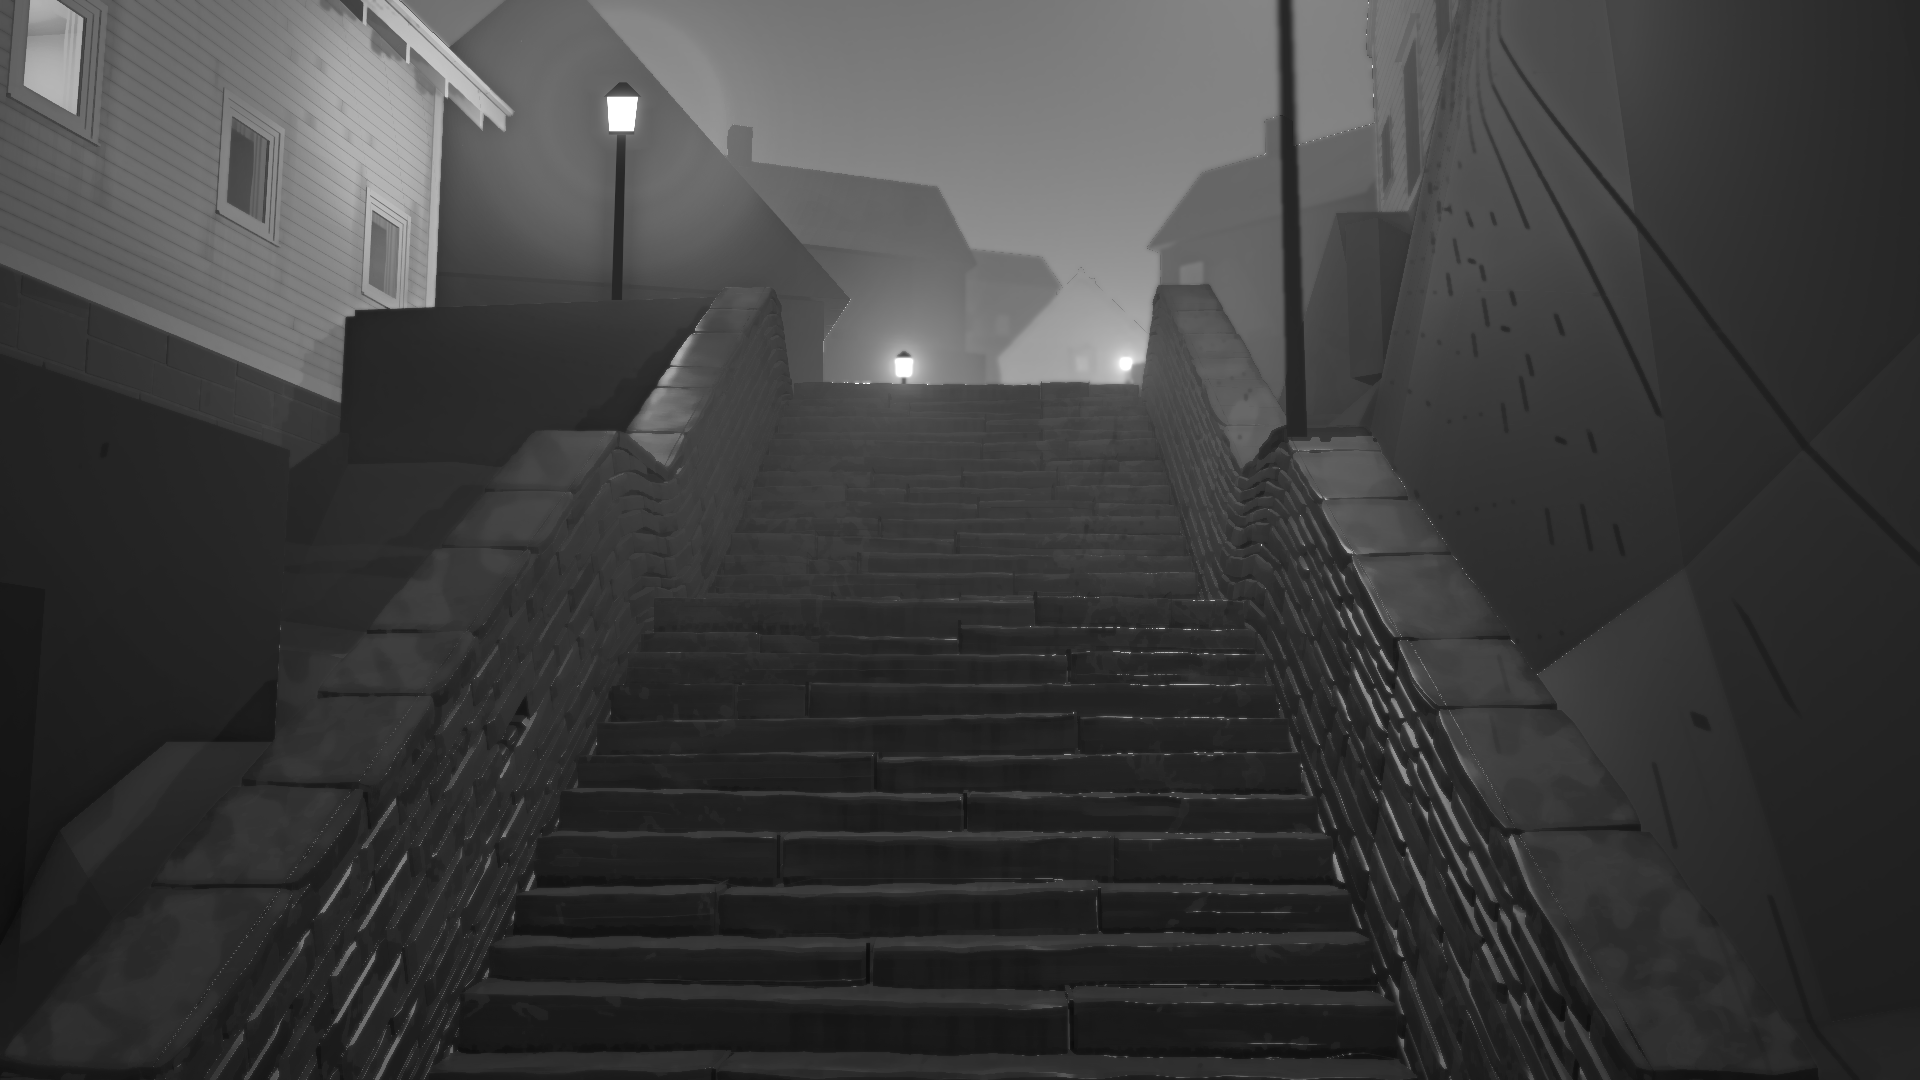
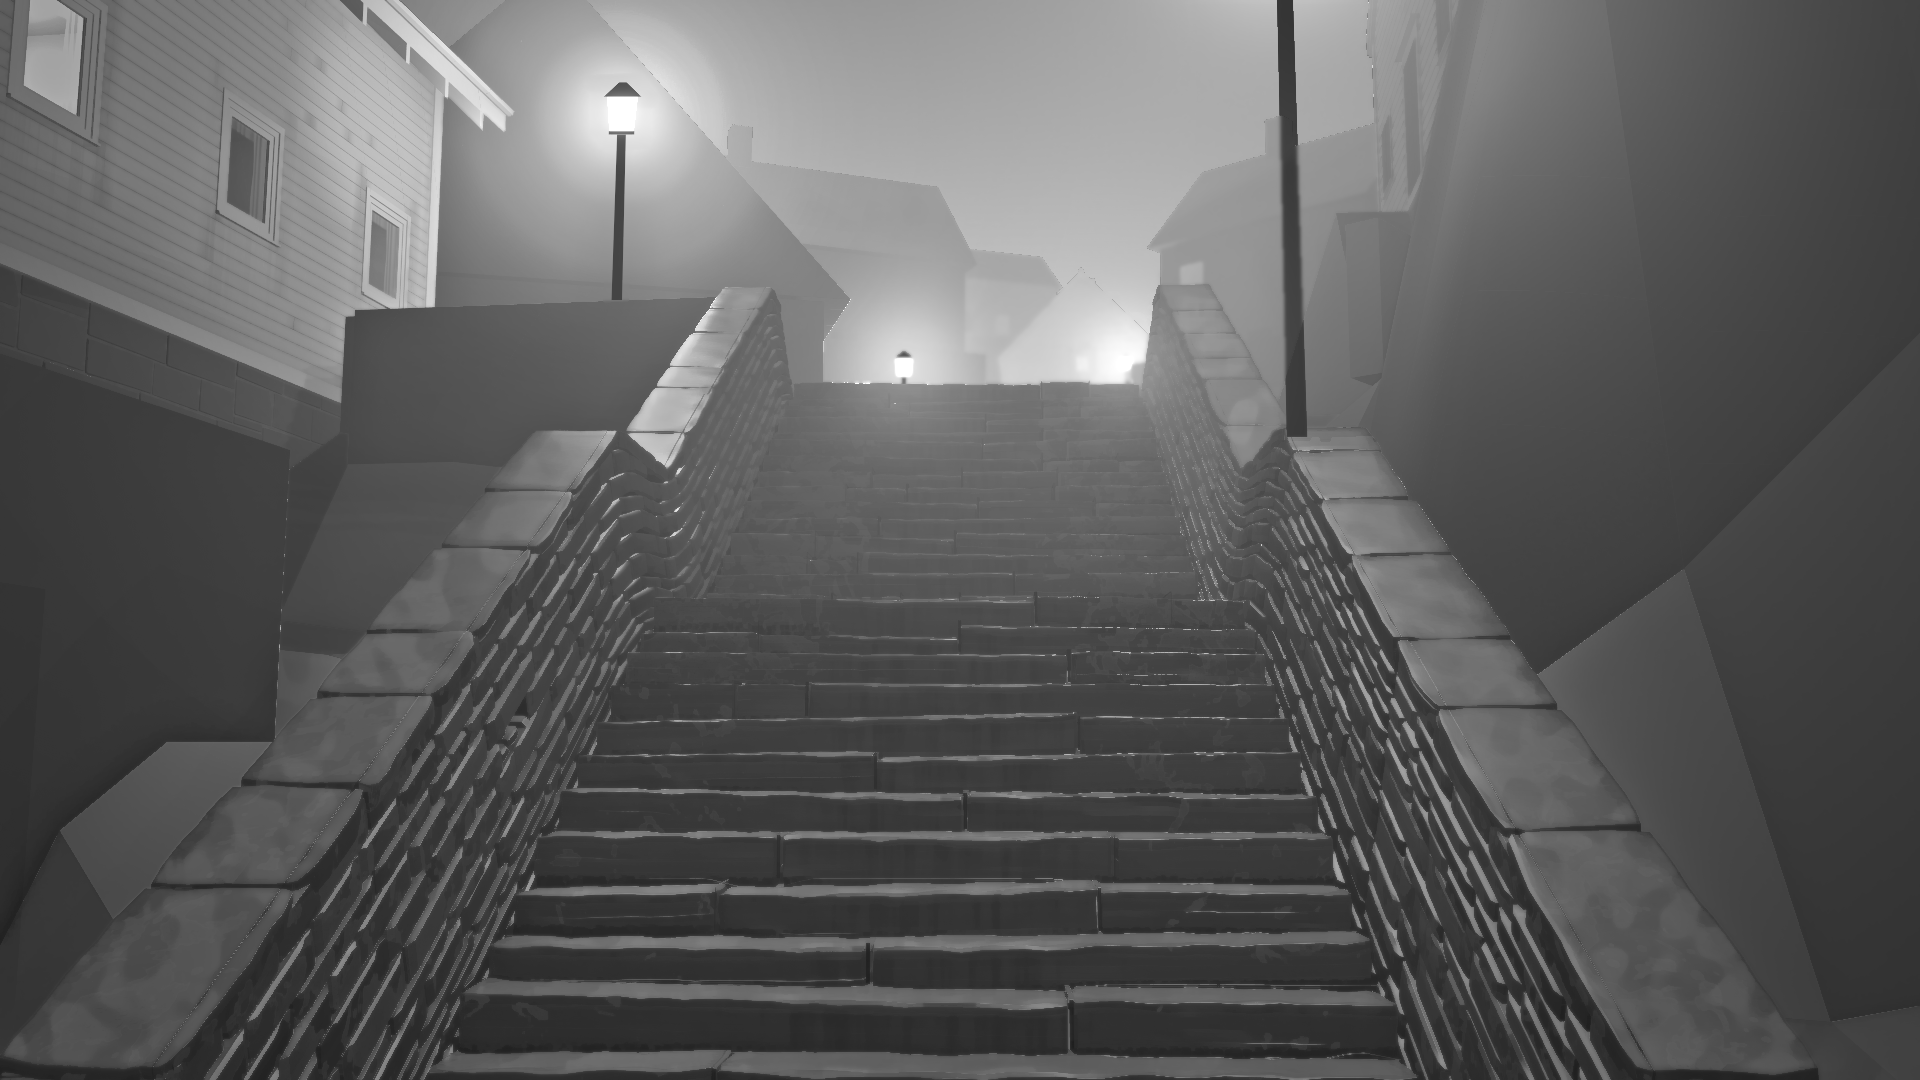
LT1: art direction: round-1 notes (the Landing leads, lanterns stand in daylight, angle-to-sky planes, wet treads), the page and the 1/8 thumbnails of all four views

diff --git a/tools/style_frame.py b/tools/style_frame.py
@@ -217,7 +217,7 @@ def add_lamps(img, P, n, dist, sky, cls, rays, cam, lamps, kinds, air, w, h, wet
     pos, basis = cam
     pool = np.zeros(img.shape[:2], np.float32)
     for lamp in lamps:
-        kind = kinds[lamp["kind"]]
+        kind = lamp.get("_kind") or kinds[lamp["kind"]]
         colour = hexlin(kind["srgb"])
         head = np.array(lamp["head"], np.float32)
         L = head[None, None, :] - P
@@ -262,14 +262,15 @@ def wet_sheen(img, wet, ps, rays):
     return img * dark[..., None] + (up * f)[..., None] * sheen[None, None, :]
 
 
-def draw_lamps(img, P, dist, cls, cam, lamps, kinds, air, w, h):
-    """The lamps themselves, after the value plan: a light that means people keeps its own value."""
+def draw_lamps(img, P, dist, cls, cam, lamps, kinds, air, w, h, lit):
+    """The lamps themselves, after the value plan: a light that means people keeps its own value. A lamp stands
+    in every light; it glows only when the moment lights it."""
     for lamp in lamps:
-        kind = kinds[lamp["kind"]]
+        kind = lamp.get("_kind") or kinds[lamp["kind"]]
         head = np.array(lamp["head"], np.float32)
-        if lamp.get("add", False):
+        if lit:
             img = glow(img, head, kind, hexlin(kind["srgb"]), dist, cam, air, w, h)
-        img = draw_lantern(img, lamp, kind, dist, cam, w, h, P, cls)
+        img = draw_lantern(img, lamp, kind, dist, cam, w, h, P, cls, lit)
     return img
 
 
@@ -304,7 +305,8 @@ def mirror(img, wet, ps, P, rays, cam, w, h):
         found |= take
         t *= 1.16
     # a ray that leaves the picture upwards finds the sky beyond the frame: the sky's colour at the picture's top
-    away = ~found & (r[:, 2] > 0.05)
+    px_end, _, z_end = project(p0 + r * t, pos, basis, w, h)
+    away = ~found & (r[:, 2] > 0.05) & ((px_end[:, 1] < 0) | (z_end <= 0))
     top = ps["sky"][: h // 6]
     if top.any() and away.any():
         got[away] = img[: h // 6][top].mean(0)
@@ -349,23 +351,26 @@ def surface_albedo(img):
 def shadow(P, head, dist, cam, w, h, steps):
     """1 where the lamp sees the point, 0 where something on screen stands between (screen-space, as games do)."""
     pos, basis = cam
-    vis = np.ones(dist.shape, np.float32)
+    hits = np.zeros(dist.shape, np.float32)
     flat = P.reshape(-1, 3)
     # the march stops short of the head itself, so a lamp the render draws does not shade its own light
-    reach = 1 - 0.6 / np.maximum(np.linalg.norm(head[None, :] - flat, axis=-1, keepdims=True), 0.7)
+    # and starts clear of the surface it leaves, so a face lit at a grazing angle does not shade itself
+    span = np.maximum(np.linalg.norm(head[None, :] - flat, axis=-1, keepdims=True), 0.7)
+    reach, start = 1 - 0.6 / span, np.minimum(0.6 / span, 0.4)
     for k in range(1, steps):
-        t = k / steps * reach
+        t = start + (reach - start) * k / steps
         q = flat * (1 - t) + head[None, :] * t
         px, qd, z = project(q, pos, basis, w, h)
         ix = np.clip(px[:, 0].astype(np.int32), 0, w - 1)
         iy = np.clip(px[:, 1].astype(np.int32), 0, h - 1)
         scene = dist[iy, ix]
         blocked = (scene < qd - 0.35) & (scene > qd - 6.0) & (z > 0.1)
-        vis = np.minimum(vis, np.where(blocked, 0.0, 1.0).reshape(dist.shape))
-    return blur(vis, 1.5)
+        hits = hits + blocked.reshape(dist.shape)
+    # a shadow needs a few blocked samples: one alone is the march's aliasing, not a thing in the way
+    return blur(1 - np.clip((hits - 1) / 2.0, 0, 1), 1.5)
 
 
-def draw_lantern(img, lamp, kind, dist, cam, w, h, P=None, cls=None):
+def draw_lantern(img, lamp, kind, dist, cam, w, h, P=None, cls=None, lit=True):
     """The lamp as its kind draws it (the kind's parts, in metres: a post, a glass lantern, a cap), hidden by
     whatever stands in front. A lamp the render already stands as a clay box is painted out first, from its own
     place, so the frame shows the lantern the lamps element will make, not the box."""
@@ -389,7 +394,7 @@ def draw_lantern(img, lamp, kind, dist, cam, w, h, P=None, cls=None):
     ppm = h / (2 * float(hd[0]) * basis[3])  # pixels per metre at the lamp
     yy, xx = np.mgrid[0:h, 0:w].astype(np.float32)
     post = lin(np.array(kind["post_srgb"], np.float32) / 255.0)
-    glass = hexlin(kind["srgb"]) * kind["head_white"]
+    glass = hexlin(kind["srgb"]) * kind["head_white"] if lit else hexlin(kind["glass_unlit_srgb"])
 
     def part(z0, z1, half0, half1, colour):
         nonlocal out
@@ -424,7 +429,7 @@ def glow(img, head, kind, colour, dist, cam, air, w, h):
     px_m = h / (2 * hd * basis[3])
     halo = np.zeros((h, w), np.float32)
     for size, share in kind["halo"]:
-        s = size * px_m * (1 + fog * hd / 40.0)
+        s = size * kind.get("halo_size", 1.0) * px_m * (1 + fog * hd / 40.0)
         halo += share * np.exp(-(rr / max(s, 1.0)) ** 2)
     front = smoothstep(hd - 2.0, hd + 1.0, dist)
     behind = 0.35 + 0.65 * front
@@ -455,6 +460,7 @@ def local_value(plan, ps):
     off += np.where(house & np.isin(ps["kind"], (0, 2, 3, 12)), lv.get("paint", 0.0), 0.0)
     off += np.where(house & (ps["kind"] == 5), lv.get("roof", 0.0), 0.0)
     off += np.where(ps["cls"] == 3, lv.get("stone", 0.0), 0.0)
+    off += np.where((ps["cls"] == 3) & up, lv.get("tread", 0.0), 0.0)
     off += np.where((ps["cls"] == 1) & up, lv.get("ground", 0.0), 0.0)
     off += np.where((ps["cls"] == 1) & ~up, lv.get("clay", 0.0), 0.0)
     return blur(off, 1.0)
@@ -513,6 +519,7 @@ def value_plan(img, plan, dist, sky, pool, focus_w, lit, local, glow_l, ps):
         c, d = m["to"]
         t = np.clip((L - a) / max(b - a, 1e-3), 0, 1)
         tl = tl + (c + (d - c) * t - tl) * m.get("share", 1.0) * m["mask"]
+        tl = tl + m.get("sky_lift", 0.0) * np.clip(ps["normal"][..., 2], 0, 1) * m["mask"]
     # the veil: away from the focus the middle distance leans to the air's value, so the found edges are the focus's
     veil = plan.get("veil")
     if veil:
@@ -524,9 +531,10 @@ def value_plan(img, plan, dist, sky, pool, focus_w, lit, local, glow_l, ps):
     lift = plan.get("pool_lift", 0.0)
     held = sum((m["mask"] for m in ps.get("masses", [])), np.zeros_like(L))
     tl = tl * (1 - pool) + (np.maximum(tl, L * (1 - held) + tl * held) + lift) * pool
-    tl = np.where(lit, np.maximum(tl, L), tl)
+    tl = np.where(lit, np.minimum(np.maximum(tl, L), plan.get("lit_max", 100.0)), tl)
     # the wet's shine is a signal (the treads' lines leading up), kept with the focus and the pools
     calm = plan["calm"] + (1 - plan["calm"]) * np.maximum(np.maximum(focus_w, pool), ps.get("shine", 0) * plan.get("shine_keep", 0.0))
+    calm = calm + (plan.get("focus_detail", 1.0) - 1.0) * focus_w
     ly2 = np.log(np.maximum(from_lstar(tl), 1e-5)) + detail * calm
     gain = np.exp(ly2) / y
     return img * gain[..., None]
@@ -589,7 +597,9 @@ def edges_and_marks(img, dist, sky, focus_w, pool, em):
     want = np.where(sky, em.get("sky_px", 0.0), want)
     out = by_radius(img, want, em["radii"], kuwahara)
     soft = em["lost_px"] * np.maximum(far * (1 - focus_w), dark * em["dark_share"] * (1 - focus_w))
-    return by_radius(out, soft, [1.0, 2.5, 5.0], lambda a, r: np.stack([blur(a[..., k], r) for k in range(3)], -1))
+    # the sky as a few soft shapes: a painter's sky, not the render's every wisp
+    soft = np.where(sky, em.get("sky_soft_px", 0.0), soft)
+    return by_radius(out, soft, [1.0, 2.5, 5.0, 12.0], lambda a, r: blur_rgb(a, r))
 
 
 def lens(img, ln, h, w):
@@ -654,10 +664,13 @@ def main():
     rf = np.sqrt(((xx - fx) / w) ** 2 + ((yy - fy) / h) ** 2)
     focus_w = np.exp(-(rf / view["focus_radius"]) ** 2).astype(np.float32)
     ps["lit"] = lit_panes(img, ps, frame.get("lit_from", 0.08))
-    lamps = [l for l in recipe["lamps"] if frame.get("lamps_on", False)]
-    img, pool = add_lamps(img, P, ps["normal"], ps["dist"], ps["sky"], ps["cls"], rays, cam, lamps,
+    # each lamp's kind with this moment's art over it (a painter's subordination of one lamp to another)
+    lamps = [{**l, "_kind": {**recipe["lamp_kinds"][l["kind"]], **frame.get("lamp_art", {}).get(l["id"], {})}}
+             for l in recipe["lamps"]]
+    lit_on = frame.get("lamps_on", False)
+    img, pool = add_lamps(img, P, ps["normal"], ps["dist"], ps["sky"], ps["cls"], rays, cam, lamps if lit_on else [],
                           recipe["lamp_kinds"], frame.get("air", {}), w, h, frame.get("wet")) \
-        if lamps else (img, np.zeros((h, w), np.float32))
+        if lit_on else (img, np.zeros((h, w), np.float32))
     ps["masses"] = masses(frame["values"], P, ps)
     for m in ps["masses"]:
         pool = pool * (1 - (1 - m.get("pool", 1.0)) * m["mask"])
@@ -667,7 +680,7 @@ def main():
     glow_l = air_glow(frame["values"], ps, rays)
     img = value_plan(img, frame["values"], ps["dist"], ps["sky"], pool, focus_w, ps["lit"],
                      local_value(frame["values"], ps), glow_l, ps)
-    img = draw_lamps(img, P, ps["dist"], ps["cls"], cam, lamps, recipe["lamp_kinds"], frame.get("air", {}), w, h)
+    img = draw_lamps(img, P, ps["dist"], ps["cls"], cam, lamps, recipe["lamp_kinds"], frame.get("air", {}), w, h, lit_on)
     out = a.out or os.path.join(AD, "frames", f"{a.view}-{a.moment}")
     os.makedirs(os.path.dirname(out), exist_ok=True)
     if a.values_only:

diff --git a/reviews/lt1/art-direction/README.md b/reviews/lt1/art-direction/README.md
@@ -1,0 +1,43 @@
+# The walked corner: art direction
+
+Øystein, 27 October: "I want you to have more of a designers eye. Make our style and art truly outstanding." This page sets how the corner's four judged views are designed in each light; the frames in `frames/` show it, and every later element is judged against them. The masters it draws on are in [masters.md](masters.md).
+
+**In short**
+- **One picture, three parts.** Every view is a dark near curtain (retaining walls, the rock knuckle, the wet ground), a lit middle where the focus is (the Landing and C's corner), and a glimpse beyond (the gully's top in its own air). Nothing in the curtain is lighter than the middle.
+- **One key, one accent.** Each light has one key colour in every shade and one accent, placed at the focus: the lanterns' gold in blue hour, C's oxide-red door in drizzle, the sun's gold on C's front in low sun.
+- **Value before colour.** Each frame is a value study at 1/8 first (`-eighth.png`, five values in `-values.png`); colour comes only after the values read.
+- **Found at the focus, lost elsewhere.** Crisp edges and full detail only at the focus and where a lit plane meets the sky; creases inside a dark mass are lost; past 50 m only shapes and lights remain.
+- **Facts stand.** The three gully lanterns are drawn at their planned places (every 24 m, the lowest on the cheek wall; the layout drops them today); the Landing's 1955 lantern replaces its clay stand-in; no person is drawn. Reopens if a frame needs a house, step, lamp or person the facts lack: then the facts change first, in the engine.
+
+## The views
+
+| View | Focus and eye travel | Value plan (blue hour, 1/8) |
+| --- | --- | --- |
+| **Street camera** (`street`) | The Landing lantern by C's warm-lit corner. In by the wet steps' ladder of light, up to the Landing, out to the lit fog at the gully's top; the nearest lantern holds the right edge. | ![](frames/street-1750-sea-fog-eighth.png) |
+| **Foot of the steps** (`eye-foot`) | The Landing lantern and C's lit corner above the flight; the treads' wet noses lead straight up to it, the two far lanterns and the fog beyond. | ![](frames/eye-foot-1750-sea-fog-eighth.png) |
+| **A house front at eye level** (`c-east`) | C's east wall in the Landing lantern's light: the boards, the windows and the paint's age at full truth, the lantern's post the one dark vertical. | ![](frames/c-east-1750-sea-fog-eighth.png) |
+| **12 m** (`into12`) | The Landing seen from above: C's lit plinth corner, the lantern, the flight turning up the gully; the knuckle a dark wedge at the right. | ![](frames/into12-1750-sea-fog-eighth.png) |
+
+**Colour script.** The same for every view; what changes is where the focus falls.
+
+| Light | Key (every shade) | The one accent | Warmest | Darkest |
+| --- | --- | --- | --- | --- |
+| **Blue hour in sea fog** (17:50) | Blue-violet of the fogged sky; white walls pale blue-violet, still the lightest built mass | The lanterns' gold; the one white is the nearest lantern's glass | The lit fog over the gully's top, peach | The near retaining wall's foot and the rock knuckle |
+| **Drizzle** (13:00) | Silver-grey of a bright overcast; sky lightest, then wet treads and puddles that mirror it, roofs, walls | C's oxide-red door, the one saturated thing | C's door; nothing else is warm | The near wall's foot and the dark glass |
+| **Low sun** (16:00) | The sun's gold on what faces it against the sky's blue in every shade: two values more than five | The gold on C's sunlit front at the Landing | C's sunlit front | The near wall in shade and the shadow under C's eaves |
+
+## The corner's shapes
+
+- **Roofs:** one simple plane each against the sky, steep gables read as triangles; the silhouette is the roof's whole statement at the street stop. Slate (C) dark and cool, pantile (D, E) warm, both darker than their walls in every light.
+- **Chimneys:** small dark verticals that punctuate the ridges; among the few crisp darks against the sky.
+- **Walls:** a pale painted body on a dark stone plinth, so each house is two values. Clapboard lines show only near and at the focus; beyond 30 m a wall is one value with its windows.
+- **Steps:** a ladder of thin light lines (the wet tread noses) between two dark cheek walls: the corner's leading line, kept crisp to the Landing.
+- **Ground:** a dark wet plane that doubles the lights, broken into patches; never a pale even field.
+- **The rock knuckle:** one dark mass, its silhouette kept and its facets lost, lit only in a small warm patch by its lantern.
+- **Growth and trees:** the only soft, irregular shapes besides the fog: they break the clay's straight tops (the knuckle, the wall copings) and frame the gully; dark against the sky, a lit edge where a lamp or the sun reaches them.
+
+**Edges and detail.** Most detail and the hardest edges at the focus (the lantern, C's corner, the treads near the Landing) and where a lit plane meets the sky; stone courses near; past 50 m only shapes, window lights and roofs; past 130 m silhouettes and lights in the air. Inside a dark mass, edges are lost.
+
+## The frames and how they are made
+
+`frames/<view>-<moment>.png` with `-grey`, `-eighth` and `-values`, made by `tools/style_frame.py <view> <moment>` from the recipe [frames.json](frames.json) (every value, hue, mass, lamp and edge is data there). It paints over `LT1Houses.Still`'s render (`render/`) and `LT1ArtPasses`' passes (`passes/`: normal, distance, class, surface kind), both rebuilt in Unity and not tracked.
